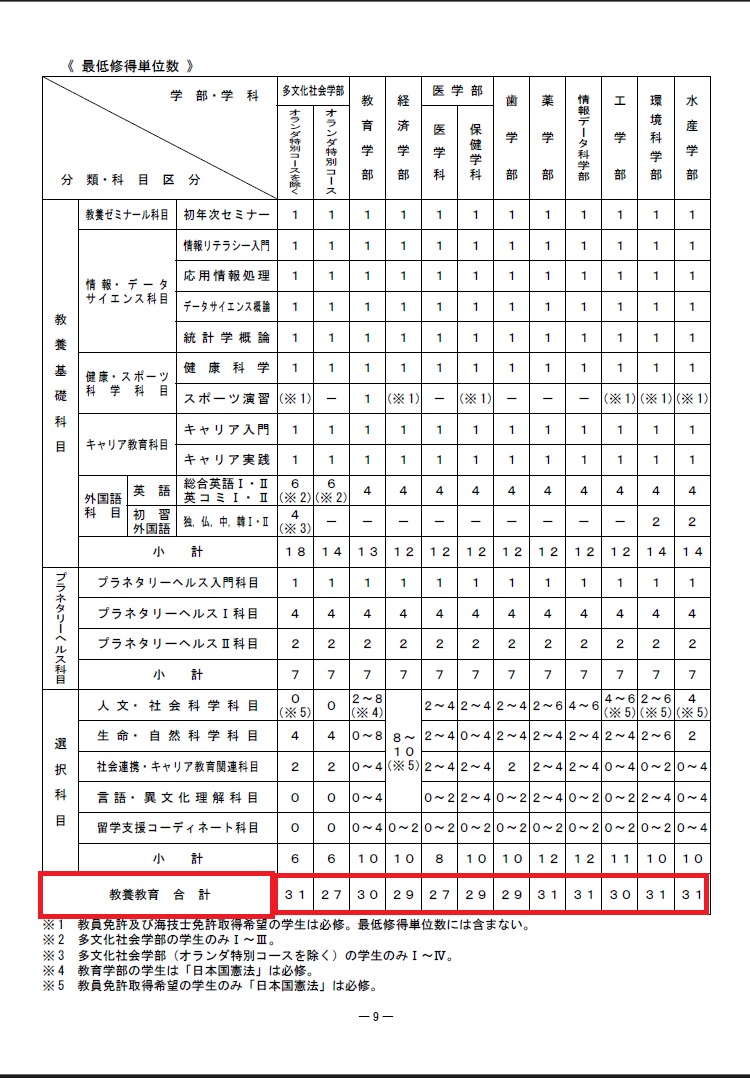
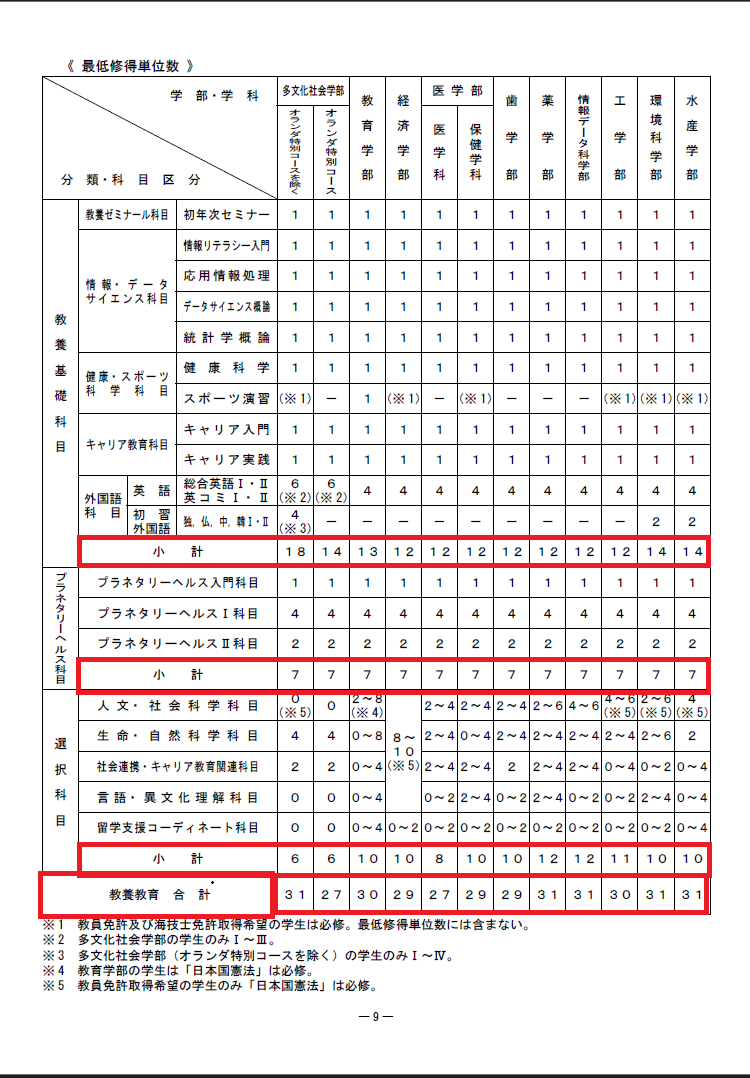
add kyoyo theory page

Changed region(s): [[0.092, 0.4898, 0.9507, 0.551], [0.092, 0.7653, 0.9507, 0.8265], [0.092, 0.6122, 0.9507, 0.6429]]

diff --git a/app/risyu-support1/kyoyo-theory/page.tsx b/app/risyu-support1/kyoyo-theory/page.tsx
@@ -198,11 +198,19 @@ export default function KyoyoTheoryPage() {
               学部・学科によって異なります
             </p>
 
-            <ul className="space-y-2 text-slate-700">
-              <li>・必修科目</li>
-              <li>・選択科目</li>
-              <li>・必要単位数</li>
-            </ul>
+            <ul className="space-y-2">
+  <li>
+    <span className="text-red-600 font-bold">🔴 必修科目</span>
+  </li>
+
+  <li>
+    <span className="text-blue-600 font-bold">🔵 選択科目</span>
+  </li>
+
+  <li>
+    <span className="text-green-600 font-bold">🟢 必要単位数</span>
+  </li>
+</ul>
           </div>
 
           {/* 必修科目画像 */}
@@ -230,8 +238,16 @@ export default function KyoyoTheoryPage() {
           </p>
 
           <p className="text-slate-700 leading-8 mb-6">
-            例えば、歯学部では教養教育の必要単位数を確認する必要があります。
+           教養教育基礎科目、プラネタリーヘルス科目、選択科目のそれぞれの小計より
+           <br />
+           多くの単位を取得する必要があります。
           </p>
+　　　　　　<p className="text-red-600 leading-8 mb-6">
+           ＜選択科目の最低修得単位に見られる〇～〇標記について＞
+           <br />
+           例えば工学部の生命・自然科学科目の２～４では、最低２単位を修得する必要があり、かつ４単位より多く修得しても選択科目の小計には４までしか算入されないという意味です。
+          </p>
+
 
           {/* 最低修得単位数画像 */}
           <img
@@ -254,6 +270,7 @@ export default function KyoyoTheoryPage() {
               <strong>科目区分ごとの必要単位数</strong>
               も確認しましょう。
             </p>
+            
           </div>
         </div>
 
@@ -338,7 +355,7 @@ export default function KyoyoTheoryPage() {
             1年次の教養教育では、学部ごとに指定された曜日など、
             大学が示す履修上のルールを確認する必要があります。
           </p>
-
+　　　　　
           <div className="bg-yellow-50 border-2 border-yellow-300 rounded-2xl p-6 mb-8">
             <p className="font-black text-yellow-800 text-lg mb-3">
               ❌ よくある考え方
@@ -395,29 +412,7 @@ export default function KyoyoTheoryPage() {
             ))}
           </div>
 
-          <div className="bg-slate-50 rounded-2xl p-6">
-            <div className="grid grid-cols-2 gap-4 text-center">
-              <div className="bg-white rounded-xl p-5">
-                <p className="font-black text-blue-800">1Q</p>
-                <p className="text-sm text-slate-600">前期前半</p>
-              </div>
-
-              <div className="bg-white rounded-xl p-5">
-                <p className="font-black text-blue-800">2Q</p>
-                <p className="text-sm text-slate-600">前期後半</p>
-              </div>
-
-              <div className="bg-white rounded-xl p-5">
-                <p className="font-black text-blue-800">3Q</p>
-                <p className="text-sm text-slate-600">後期前半</p>
-              </div>
-
-              <div className="bg-white rounded-xl p-5">
-                <p className="font-black text-blue-800">4Q</p>
-                <p className="text-sm text-slate-600">後期後半</p>
-              </div>
-            </div>
-          </div>
+          
 
           <div className="mt-8 grid md:grid-cols-2 gap-6">
 
